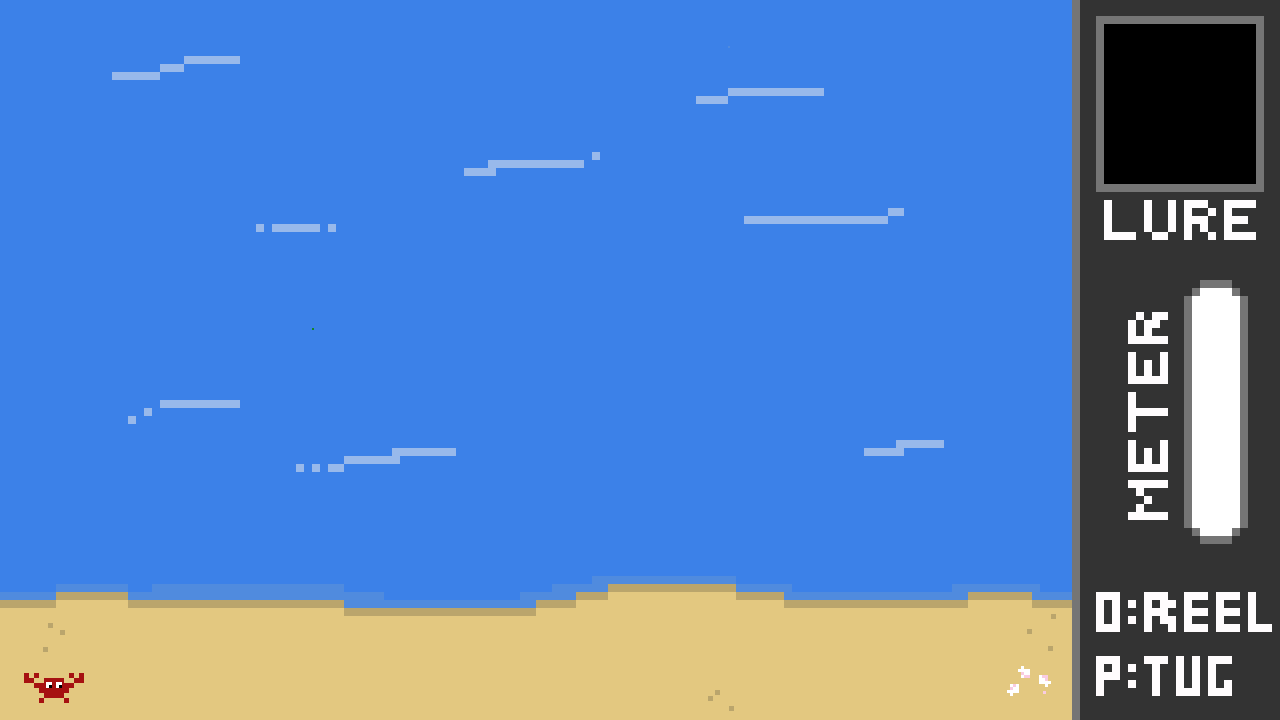
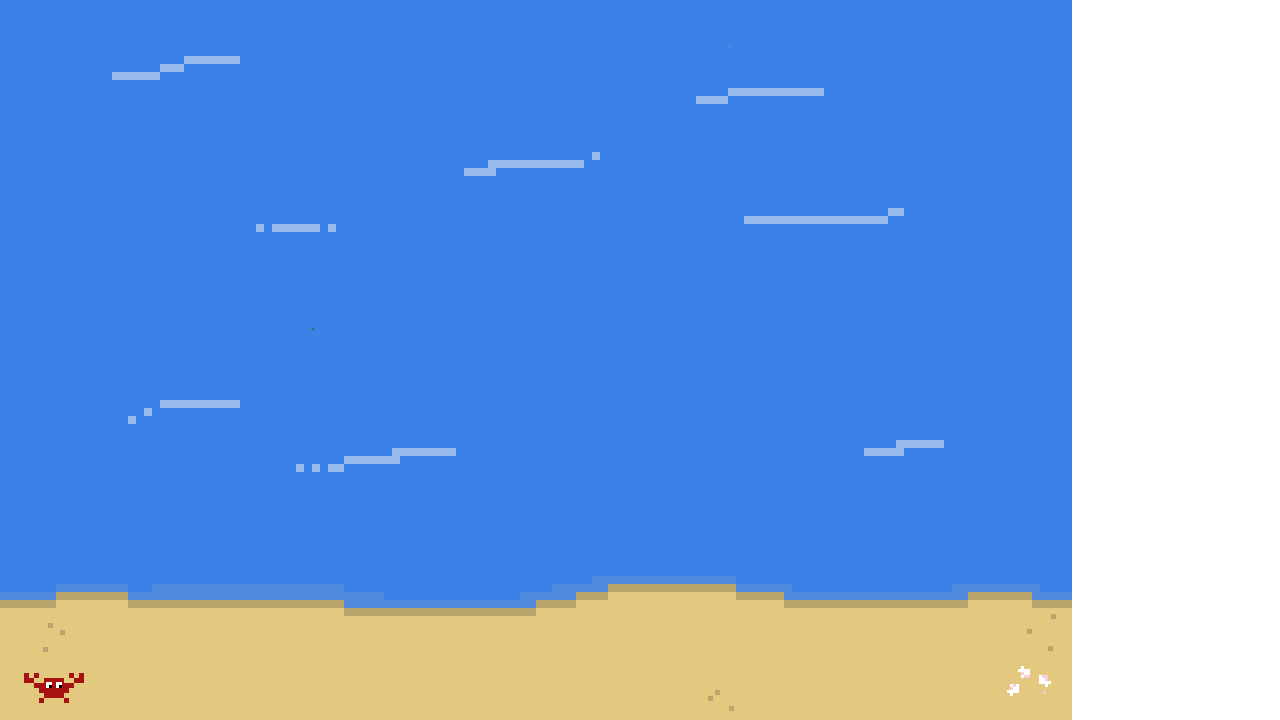
Miscellaneous fixes for fishing view

Changed region(s): [[0.8125, 0.0, 1.0, 1.0]]

diff --git a/src/fishing_view.rs b/src/fishing_view.rs
@@ -1,5 +1,7 @@
 extern crate rand;
 
+use lazy_static::lazy_static;
+use std::collections::HashMap;
 use std::hash::{Hash, Hasher};
 use std::f32;
 use std::f32::consts::PI;
@@ -25,8 +27,7 @@ const ROTATE_ROD_COUNTERLCOCKWISE: KeyCode = KeyCode::KeyA;
 const ROTATE_ROD_CLOCKWISE: KeyCode = KeyCode::KeyD;
 const SWITCH_ROD: KeyCode = KeyCode::KeyN;
 const SWITCH_LINE: KeyCode = KeyCode::KeyM;
-const SWITCH_BAIT_NEXT: KeyCode = KeyCode::KeyX;
-const SWITCH_BAIT_PREV: KeyCode = KeyCode::KeyZ;
+const SWITCH_BAIT: KeyCode = KeyCode::KeyX;
 
 pub const PARTICLECOUNT: usize = 10;
 
@@ -49,6 +50,35 @@ const ROD_ROTATION_SPEED: f32 = PI / 2.;
 const MAX_CAST_DISTANCE: f32 = 400.;
 const CASTING_SPEED: f32 = 250.;
 const REEL_IN_SPEED: f32 = 150.;
+
+lazy_static! {
+    static ref RODS: HashMap<&'static str, &'static FishingRodType> = {
+        let mut map = HashMap::new();
+        map.insert("Default Rod", &FishingRodType::NORMAL);
+        map.insert("Surf Rod", &FishingRodType::SURF);
+        map
+    };
+}
+
+lazy_static! {
+    static ref LINES: HashMap<&'static str, &'static FishingLineType> = {
+        let mut map = HashMap::new();
+        map.insert("FluoroCarbon Fishing Line", &FishingLineType::FLUOROCARBON);
+        map.insert("Braided Fishing Line", &FishingLineType::BRAIDED);
+        map.insert("Monofilament Fishing Line", &FishingLineType::MONOFILILMENT);
+        map
+    };
+}
+
+lazy_static! {
+    static ref LURES: HashMap<&'static str, &'static Lure> = {
+        let mut map = HashMap::new();
+        map.insert("Bobber", &Lure::BALL);
+        map.insert("Frog Bait", &Lure::FROG);
+        map.insert("Swim Bait", &Lure::FISH);
+        map
+    };
+}
 
 #[derive(Resource)]
 pub struct StartFishingAnimation {
@@ -606,8 +636,35 @@ fn setup (
         Collision,
         PhysicsFish,
     ));
+    
+    // HUD background
+    commands.spawn((
+        MaterialMesh2dBundle {
+            mesh: Mesh2dHandle(meshes.add(Rectangle::new(208., 720.))),
+            material: materials.add(Color::BLACK),
+            transform: Transform {
+                translation: Vec3::new(FISHING_ROOM_X + 536., FISHING_ROOM_Y, 999.25),
+                ..default()
+            },
+            ..default()
+        },
+    ));
 
-    let fishing_sheet_handle: Handle<Image> = asset_server.load("fishing_view/fishing_view.png");
+    // HUD
+    let hud_handle = asset_server.load("fishing_view/hud.png");
+
+    commands.spawn((
+        SpriteBundle {
+            texture: hud_handle.clone(),
+            transform: Transform {
+                translation: Vec3::new(FISHING_ROOM_X, FISHING_ROOM_Y, 999.75),
+                ..default()
+            },
+            ..default()
+        },
+    ));
+
+    let fishing_sheet_handle: Handle<Image> = asset_server.load("fishing_view/pond_view.png");
 
     commands.spawn((
         SpriteBundle {
@@ -621,7 +678,6 @@ fn setup (
             },
             ..default()
         },
-        
     ));
     
     //powerbar view
@@ -633,7 +689,7 @@ fn setup (
                         ..default() 
                         },
             transform: Transform {
-                translation: Vec3::new(FISHING_ROOM_X+575., FISHING_ROOM_Y-308., 899.),
+                translation: Vec3::new(FISHING_ROOM_X+575., FISHING_ROOM_Y-308., 999.5),
                 ..default()
             },
             ..default()
@@ -1262,12 +1318,7 @@ fn switch_rod (
 
     inventory.rod_index = if inventory.rod_index == inventory.rods.len() - 1 { 0 } else { inventory.rod_index + 1 };
     let current_rod = inventory.rods[inventory.rod_index].name;
-
-    let new_type = match current_rod {
-        "Default Rod" => &FishingRodType::NORMAL,
-        "Surf Rod" => &FishingRodType::SURF,
-        _ => &FishingRodType::NORMAL,
-    };
+    let new_type = RODS.get(current_rod).unwrap();
 
     rod_info.rod_type = new_type;
     materials.remove(&rod_info.material);
@@ -1321,13 +1372,7 @@ fn switch_line (
     
     inventory.line_index = if inventory.line_index == inventory.lines.len() - 1 { 0 } else { inventory.line_index + 1 };
     let current_line = inventory.lines[inventory.line_index].name;
-
-    line_properties.line_type = match current_line {
-        "FluoroCarbon Fishing Line" => &FishingLineType::FLUOROCARBON,
-        "Braided Fishing Line" => &FishingLineType::BRAIDED,
-        "Monofilament Fishing Line" => &FishingLineType::MONOFILILMENT,
-        _ => &FishingLineType::MONOFILILMENT
-    };
+    line_properties.line_type = LINES.get(current_line).unwrap();
 
     let material = materials.get_mut(line_material.id()).unwrap();
     material.color = line_properties.line_type.color;
@@ -1339,24 +1384,17 @@ fn switch_bait (
     mut bait_lure: Query<(&mut PhysicsObject, &mut TextureAtlas), (With<Lure>, Without<OnScreenLure>)>,
     mut player_inventory: Query<&mut PlayerInventory>,
 ) {
+    if !input.just_pressed(SWITCH_BAIT) {
+        return;
+    }
+
     let mut inventory = player_inventory.single_mut();
     let mut screen_texture  = screen_lure.single_mut();
     let (mut bait_physics, mut bait_texture) = bait_lure.single_mut();
 
-    if input.just_pressed(SWITCH_BAIT_NEXT) {
-        inventory.lure_index = if inventory.lure_index == inventory.lures.len() - 1 { 0 } else { inventory.lure_index + 1 };
-    } else if input.just_pressed(SWITCH_BAIT_PREV) {
-        inventory.lure_index = if inventory.lure_index == 0 { inventory.lures.len() - 1 } else { inventory.lure_index - 1 };
-    } else {
-        return;
-    }
-
-    let new_bait = match inventory.lures[inventory.lure_index].name {
-        "Ball Bait" => &Lure::BALL,
-        "Frog Bait" => &Lure::FROG,
-        "Swim Bait" => &Lure::FISH,
-        _ => &Lure::BALL
-    };
+    inventory.lure_index = if inventory.lure_index == inventory.lures.len() - 1 { 0 } else { inventory.lure_index + 1 };
+    let current_bait = inventory.lures[inventory.lure_index].name;
+    let new_bait = LURES.get(current_bait).unwrap();
     
     *bait_physics = PhysicsObject::new(new_bait.mass, Vec3::new(FISHING_ROOM_X, FISHING_ROOM_Y + 100., 0.), Vec3::ZERO, Vec3::ZERO, Forces::default());
     screen_texture.index = new_bait.texture_index;
@@ -1487,21 +1525,19 @@ fn animate_fishing_line (
 
     line_info.start = rod_info.tip_pos;
 
-    match state.get() {
-        FishingState::Idle => {
-            line_info.end = line_info.start;
-        },
-        FishingState::ReelingHooked => {
-            let (fish_species, fish_physics) = hooked_fish.single();
-            let fish_offset = fish_species.hook_pos.rotate(Vec2::from_angle(fish_physics.rotation.z));
-            let fish_pos = fish_physics.position + fish_offset.extend(0.);
-            line_info.end = fish_pos;
-        },
-        FishingState::ReelingUnhooked => {
-            let bobber_physics = bobber.single_mut();
-            line_info.end = bobber_physics.position;
-        },
-        _ => {}
+    if !hooked_fish.is_empty() {
+        // Reeling hooked
+        let (fish_species, fish_physics) = hooked_fish.single();
+        let fish_offset = fish_species.hook_pos.rotate(Vec2::from_angle(fish_physics.rotation.z));
+        let fish_pos = fish_physics.position + fish_offset.extend(0.);
+        line_info.end = fish_pos;
+    } else if state.eq(&FishingState::ReelingUnhooked) {
+        // Reeling unhooked
+        let bobber_physics = bobber.single_mut();
+        line_info.end = bobber_physics.position;
+    } else {
+        // Idle
+        line_info.end = line_info.start;
     }
 }
 

diff --git a/src/physics.rs b/src/physics.rs
@@ -23,7 +23,7 @@ pub struct PhysicsObject {
     pub position: Vec3,
     pub rotation: Vec3,
     pub velocity: Vec3,
-    pub forces: Forces
+    pub forces: Forces,
 }
 
 impl PhysicsObject {
